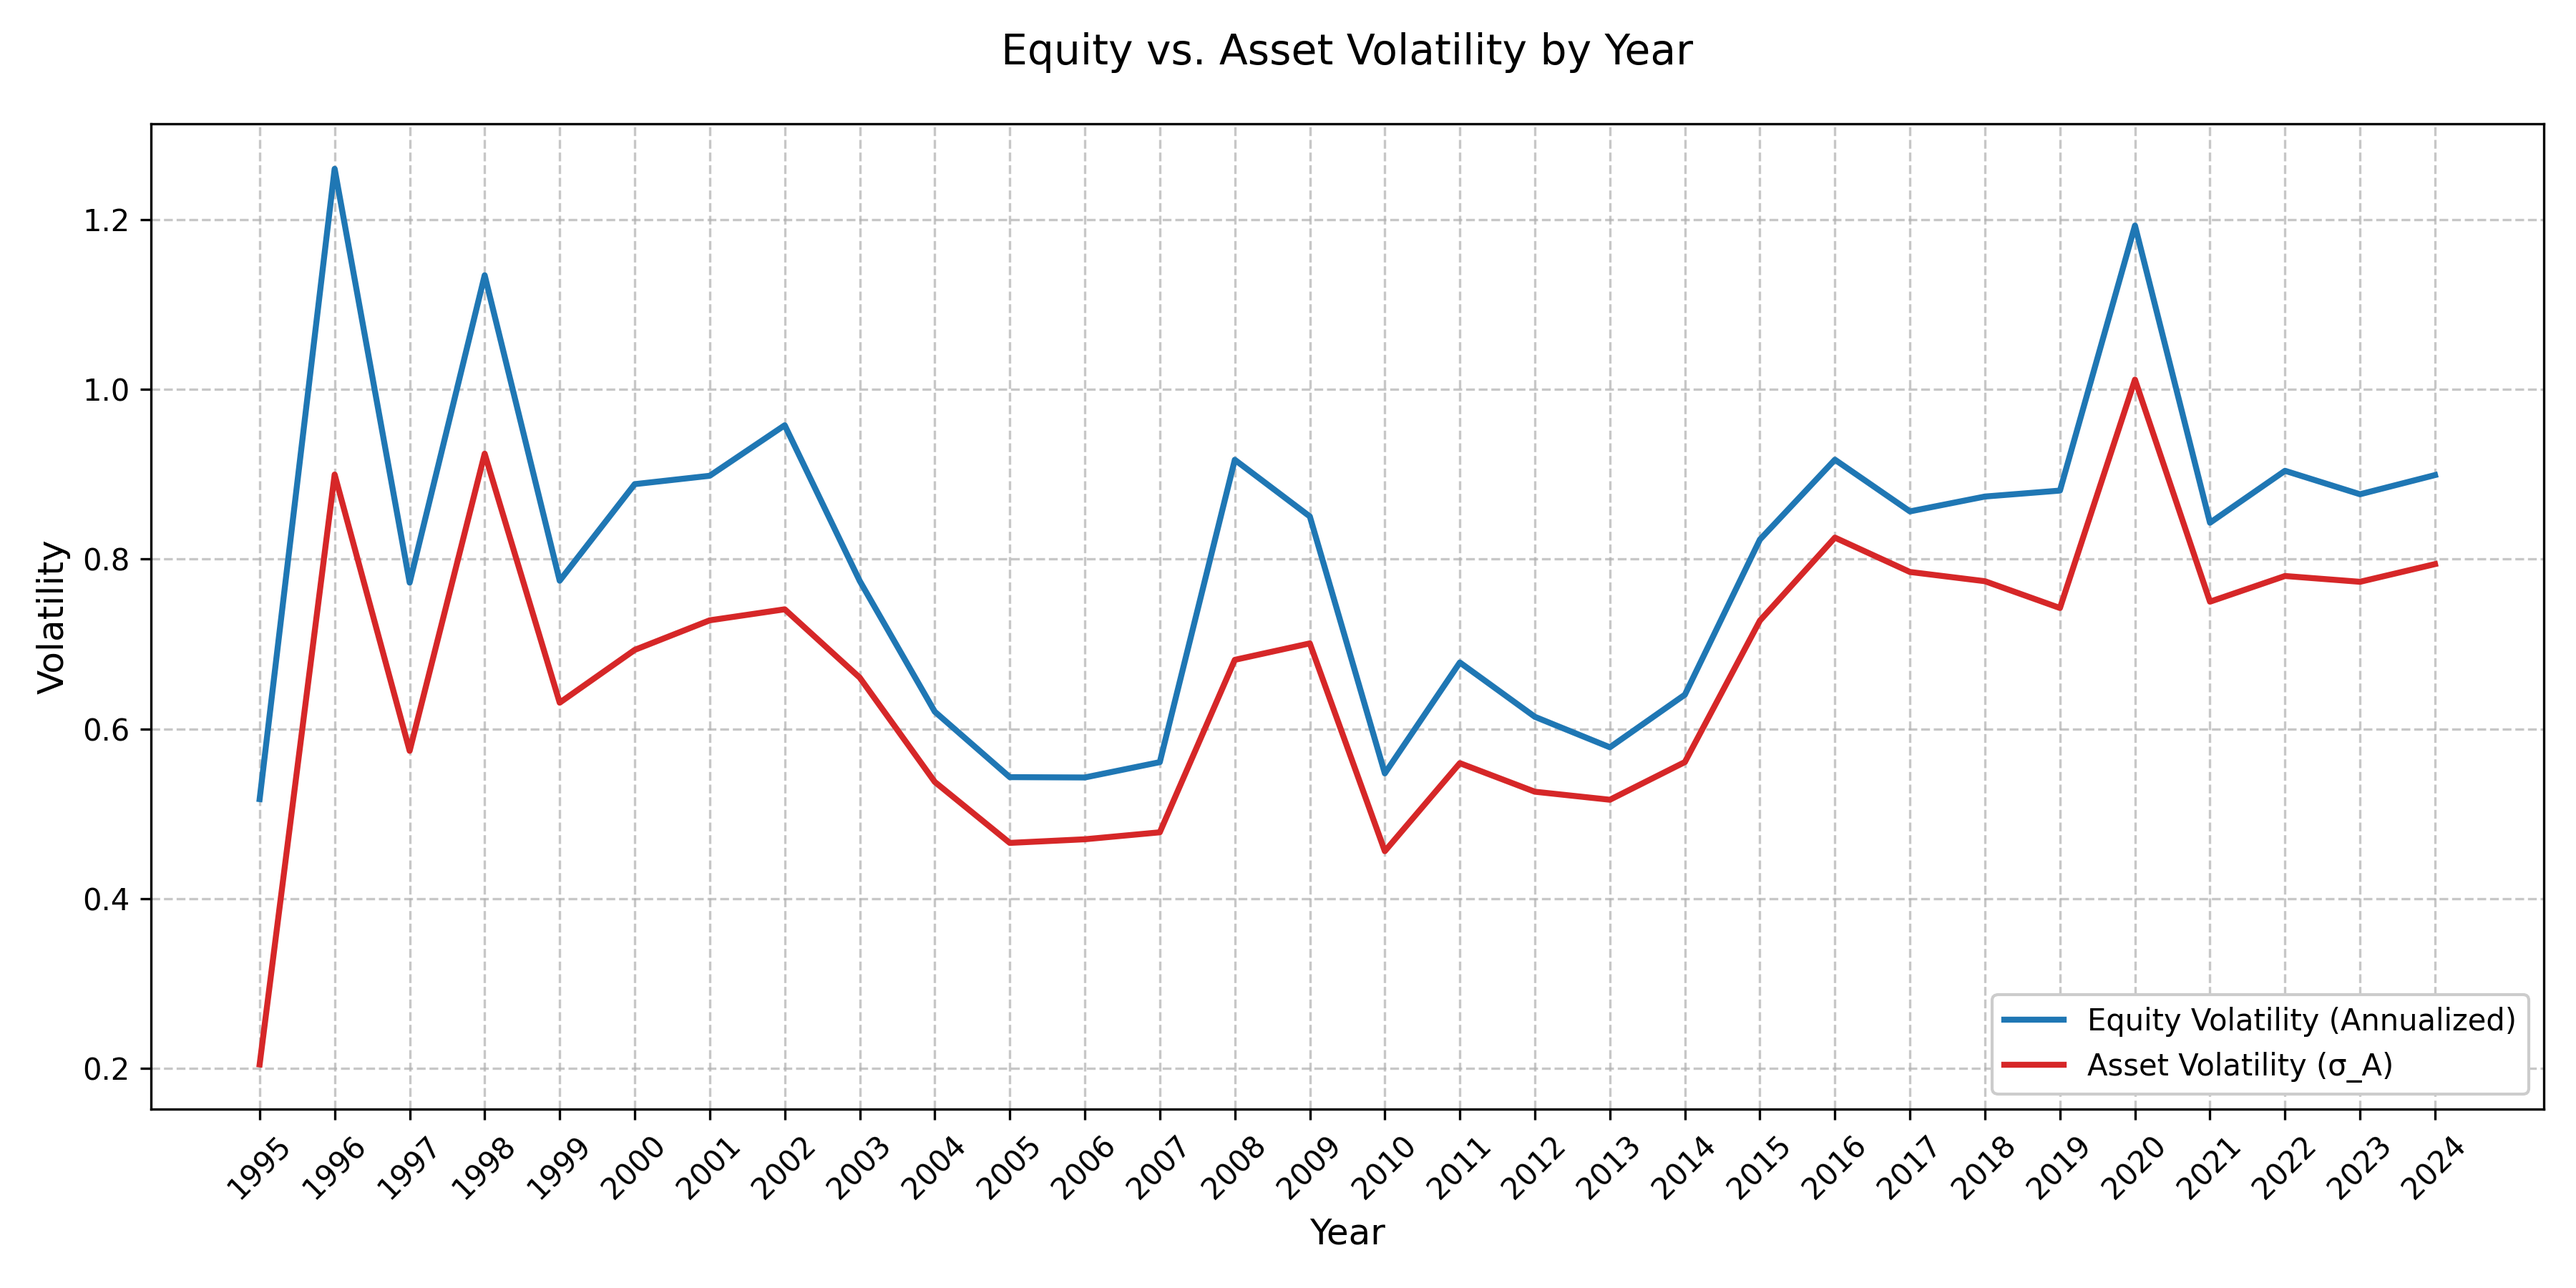
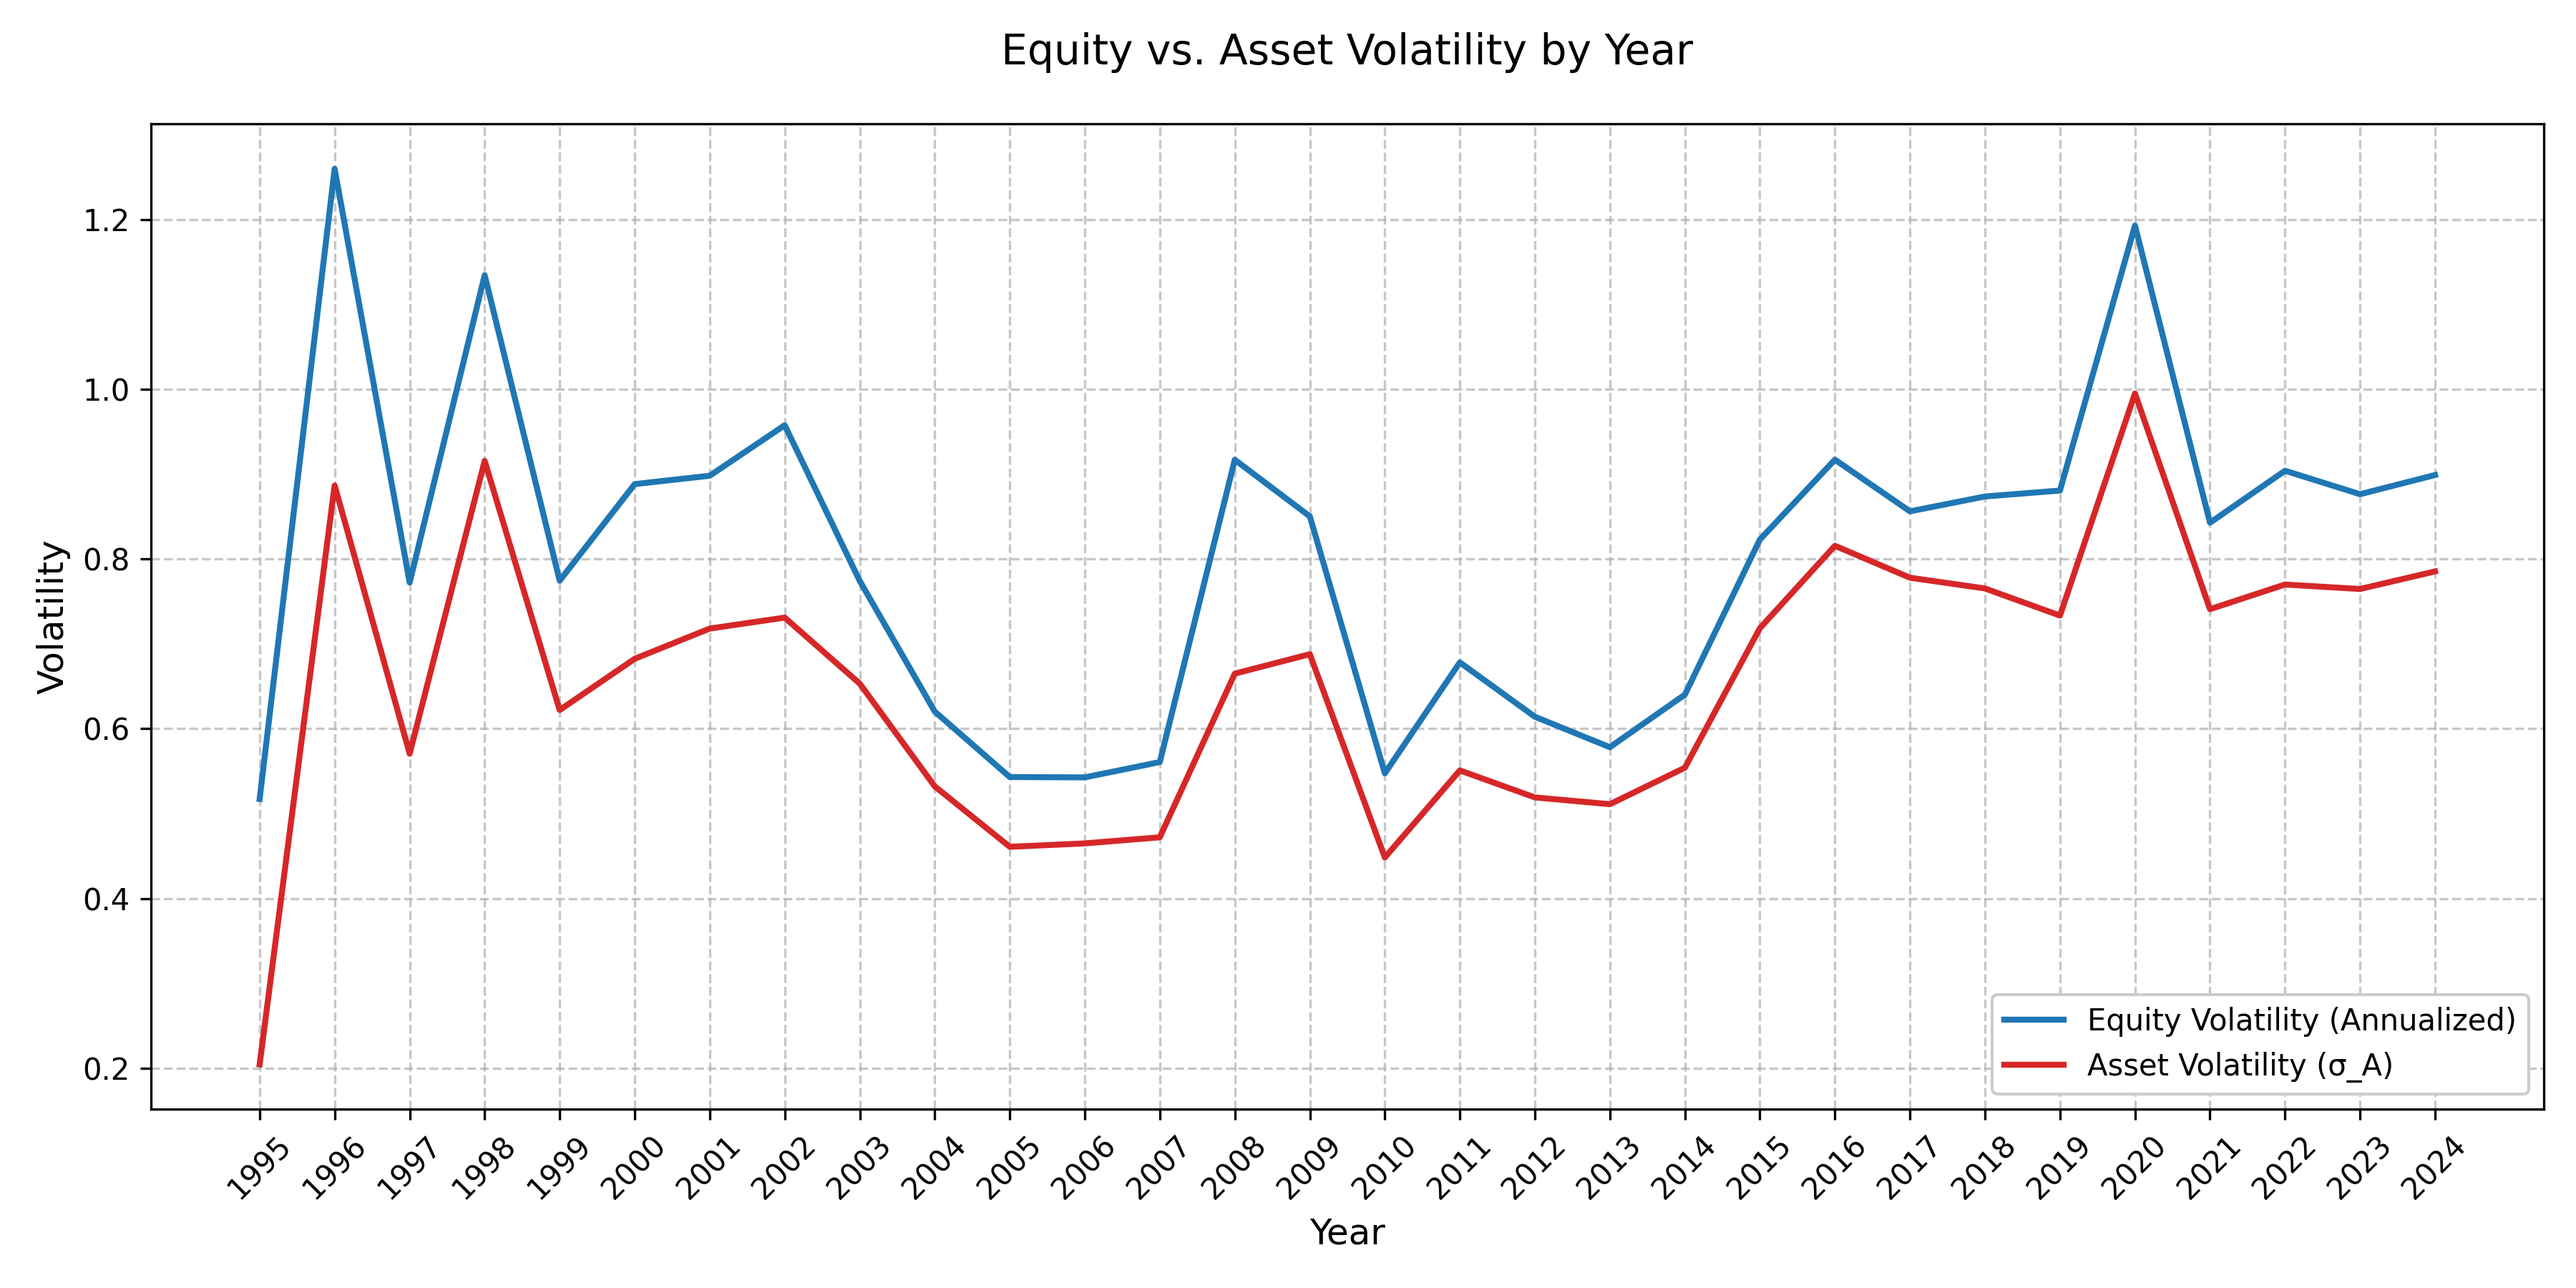
correcting the plot for equity vs asset volatility according to model specs

diff --git a/Scripts/merton_model/equity_vs_asset_volatility.py b/Scripts/merton_model/equity_vs_asset_volatility.py
@@ -12,7 +12,7 @@ df1 = pd.read_csv(input2)
 df["annualised_volatility"] = df["volatility"] * np.sqrt(252)
 df_plot = df.groupby('fyear').agg({
     'annualised_volatility': 'mean',
-    'sigma_A_0_rf': 'mean'
+    'sigma_A_0.1_rf': 'mean'
 }).reset_index()
 
 plt.figure(figsize=(12, 6))
@@ -20,7 +20,7 @@ plt.figure(figsize=(12, 6))
 # Plot both series on the same y-axis
 plt.plot(df_plot['fyear'], df_plot['annualised_volatility'], 
          color='tab:blue', linestyle='-', linewidth=2, label='Equity Volatility (Annualized)')
-plt.plot(df_plot['fyear'], df_plot['sigma_A_0_rf'], 
+plt.plot(df_plot['fyear'], df_plot['sigma_A_0.1_rf'], 
          color='tab:red', linestyle='-', linewidth=2, label='Asset Volatility (σ_A)')
 
 plt.xticks(df_plot['fyear'], rotation=45)  # Force all years + rotate labels
@@ -38,7 +38,7 @@ plt.savefig(snakemake.output[0], dpi=300)
 df1["annualised_volatility"] = df1["volatility"] * np.sqrt(252)
 df_plot1 = df1.groupby('fyear').agg({
     'annualised_volatility': 'mean',
-    'sigma_A_0_rf': 'mean'
+    'sigma_A_0.1_rf': 'mean'
 }).reset_index()
 
 plt.figure(figsize=(12, 6))
@@ -46,7 +46,7 @@ plt.figure(figsize=(12, 6))
 # Plot both series on the same y-axis
 plt.plot(df_plot1['fyear'], df_plot1['annualised_volatility'], 
          color='tab:blue', linestyle='-', linewidth=2, label='Equity Volatility (Annualized)')
-plt.plot(df_plot1['fyear'], df_plot1['sigma_A_0_rf'], 
+plt.plot(df_plot1['fyear'], df_plot1['sigma_A_0.1_rf'], 
          color='tab:red', linestyle='-', linewidth=2, label='Asset Volatility (σ_A)')
 
 plt.xticks(df_plot1['fyear'], rotation=45)  # Force all years + rotate labels
